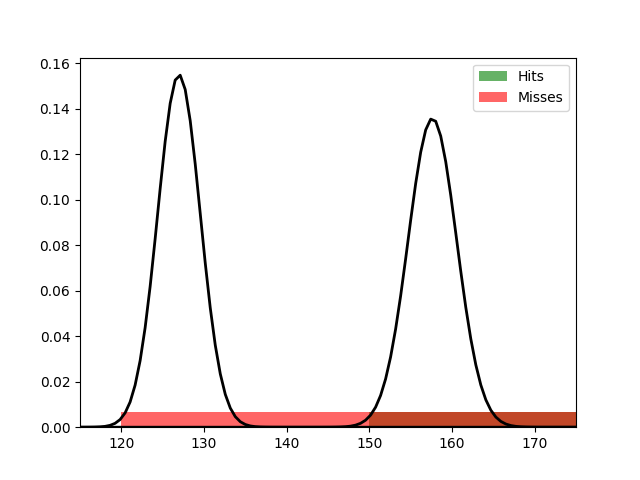
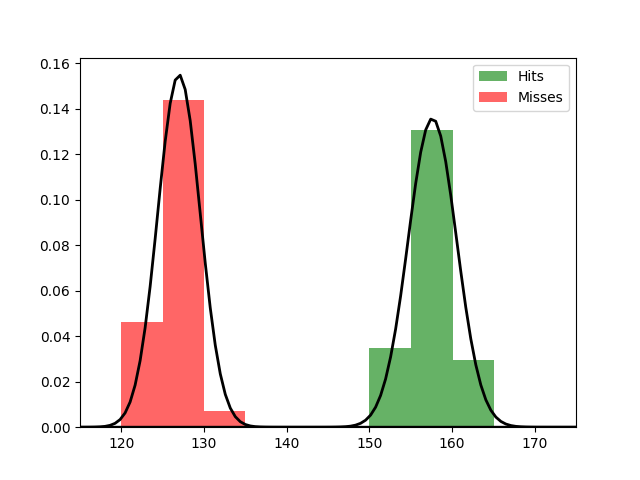
added intel data eval

Changed region(s): [[0.375, 0.25, 0.9062, 0.9062], [0.1875, 0.1875, 0.3438, 0.875]]

diff --git a/evaluate_threshhold.py b/evaluate_threshhold.py
@@ -3,6 +3,7 @@ import matplotlib.pyplot as plt
 from scipy.stats import norm
 from sklearn import metrics
 
+FF=False
 
 # https://stackoverflow.com/questions/22579434/python-finding-the-intersection-point-of-two-gaussian-curves
 def solve(m1, m2, std1, std2):
@@ -48,7 +49,7 @@ mu_miss, std_miss = np.mean(misses_cleaned), np.std(misses_cleaned)
 # fit for Hits
 mu_hit, std_hit = np.mean(hits_cleaned), np.std(hits_cleaned)
 
-if mu_miss > mu_hit:
+if (FF is True and mu_miss > mu_hit) or (FF is False and mu_hit > mu_miss):
     (misses, hits) = (hits, misses)
     (misses_cleaned, hits_cleaned) = (hits_cleaned, misses_cleaned)
 
@@ -57,12 +58,9 @@ if mu_miss > mu_hit:
 
     # fit for Hits
     mu_hit, std_hit = np.mean(hits_cleaned), np.std(hits_cleaned)
-    if mu_miss > mu_hit:
-        print("WTF")
-        exit(1)
 
-plt.hist(hits, density=True, align="mid", alpha=0.6, color='g', label="Hits")
-plt.hist(misses, density=True, align="mid", histtype="barstacked", alpha=0.6, color='r', label="Misses")
+plt.hist(hits, density=True, bins = 100, align="mid", alpha=0.6, color='g', label="Hits")
+plt.hist(misses, density=True, bins = 5000, align="mid", histtype="barstacked", alpha=0.6, color='r', label="Misses")
 
 plt.xlim(min(min(hits_cleaned), min(misses_cleaned)) - 5, max(max(hits_cleaned), max(misses_cleaned)) + 5)
 xmin, xmax = plt.xlim()
@@ -94,14 +92,10 @@ max_acc = 0
 best_threshhold = 0
 for threshhold in result:
     inputs = hits + misses
-    if method == "ff":
+    if FF is True:
         pred = ["Hit" if i > threshhold else "Miss" for i in inputs]
-    elif method == "fr":
-        pred = ["Hit" if i <= threshhold else "Miss" for i in inputs]
     else:
-        print("WTF3")
-        pred = None
-        exit(1)
+        pred = ["Hit" if i <= threshhold else "Miss" for i in inputs]
 
     act = ["Hit"] * NUMBEROFPOINTS + ["Miss"] * NUMBEROFPOINTS
     accuracy = metrics.accuracy_score(act, pred)
@@ -113,14 +107,10 @@ for threshhold in result:
 threshhold = best_threshhold
 print("\n\nTHRESHHOLD: ", threshhold)
 inputs = hits + misses
-if method == "ff":
+if FF is True:
     pred = ["Hit" if i > threshhold else "Miss" for i in inputs]
-elif method == "fr":
-    pred = ["Hit" if i <= threshhold else "Miss" for i in inputs]
 else:
-    print("WTF3")
-    pred = None
-    exit(1)
+    pred = ["Hit" if i <= threshhold else "Miss" for i in inputs]
 
 act = ["Hit"] * NUMBEROFPOINTS + ["Miss"] * NUMBEROFPOINTS
 print("\n", metrics.confusion_matrix(act, pred, labels=["Hit", "Miss"]), "\n")

diff --git a/data/intel/FF_10kHz/readme.md b/data/intel/FF_10kHz/readme.md
@@ -1,0 +1,46 @@
+Fit results Hits: mu = 157.66,  std = 2.94
+Fit results Misses: mu = 126.10,  std = 2.63
+5000
+5000
+
+Threshhold:  -141.7676686684372 
+Accuracy:  0.5
+
+Threshhold:  141.02934195068664 
+Accuracy:  0.9632
+
+
+THRESHHOLD:  141.02934195068664
+
+ [[4816  184]
+ [ 184 4816]] 
+
+              precision    recall  f1-score   support
+
+         Hit       0.96      0.96      0.96      5000
+        Miss       0.96      0.96      0.96      5000
+
+    accuracy                           0.96     10000
+   macro avg       0.96      0.96      0.96     10000
+weighted avg       0.96      0.96      0.96     10000
+
+Accuracy:  0.9632
+Results for the Transmission:
+
+ [[4554  206]
+ [ 207 5033]] 
+
+              precision    recall  f1-score   support
+
+          0
+       0.96      0.96      0.96      4760
+          1
+       0.96      0.96      0.96      5240
+
+    accuracy                           0.96     10000
+   macro avg       0.96      0.96      0.96     10000
+weighted avg       0.96      0.96      0.96     10000
+
+Wasserstein-Distance: 0.00010000
+
+![image](Figure_1.png)

diff --git a/data/intel/FF_1kHz/readme.md b/data/intel/FF_1kHz/readme.md
@@ -1,0 +1,46 @@
+Fit results Hits: mu = 157.63,  std = 2.94
+Fit results Misses: mu = 126.97,  std = 2.57
+5000
+5000
+
+Threshhold:  141.31712938079647 
+Accuracy:  0.9939
+
+Threshhold:  -89.30090792219593 
+Accuracy:  0.5
+
+
+THRESHHOLD:  141.31712938079647
+
+ [[5000    0]
+ [  61 4939]] 
+
+              precision    recall  f1-score   support
+
+         Hit       0.99      1.00      0.99      5000
+        Miss       1.00      0.99      0.99      5000
+
+    accuracy                           0.99     10000
+   macro avg       0.99      0.99      0.99     10000
+weighted avg       0.99      0.99      0.99     10000
+
+Accuracy:  0.9939
+Results for the Transmission:
+
+ [[4986    4]
+ [   0 5010]] 
+
+              precision    recall  f1-score   support
+
+          0
+       1.00      1.00      1.00      4990
+          1
+       1.00      1.00      1.00      5010
+
+    accuracy                           1.00     10000
+   macro avg       1.00      1.00      1.00     10000
+weighted avg       1.00      1.00      1.00     10000
+
+Wasserstein-Distance: 0.00040000
+
+![image](Figure_1.png)

diff --git a/data/intel/FF_100kHz/readme.md b/data/intel/FF_100kHz/readme.md
@@ -1,0 +1,46 @@
+Fit results Hits: mu = 139.38,  std = 15.26
+Fit results Misses: mu = 141.87,  std = 15.44
+5000
+5000
+
+Threshhold:  141.667247945282 
+Accuracy:  0.4589
+
+Threshhold:  -83.44862224644491 
+Accuracy:  0.5
+
+
+THRESHHOLD:  -83.44862224644491
+
+ [[5000    0]
+ [5000    0]] 
+
+              precision    recall  f1-score   support
+
+         Hit       0.50      1.00      0.67      5000
+        Miss       0.00      0.00      0.00      5000
+
+    accuracy                           0.50     10000
+   macro avg       0.25      0.50      0.33     10000
+weighted avg       0.25      0.50      0.33     10000
+
+Accuracy:  0.5
+Results for the Transmission:
+
+ [[3317 1853]
+ [1907 2923]] 
+
+              precision    recall  f1-score   support
+
+          0
+       0.63      0.64      0.64      5170
+          1
+       0.61      0.61      0.61      4830
+
+    accuracy                           0.62     10000
+   macro avg       0.62      0.62      0.62     10000
+weighted avg       0.62      0.62      0.62     10000
+
+Wasserstein-Distance: 0.00540000
+
+![image](Figure_1.png)

diff --git a/data/intel/FR_10kHz/readme.md b/data/intel/FR_10kHz/readme.md
@@ -1,0 +1,46 @@
+Fit results Hits: mu = 43.37,  std = 1.87
+Fit results Misses: mu = 266.41,  std = 2.55
+5000
+5000
+
+Threshhold:  -571.9144006813663 
+Accuracy:  0.5
+
+Threshhold:  137.78340453153146 
+Accuracy:  0.0099
+
+
+THRESHHOLD:  -571.9144006813663
+
+ [[5000    0]
+ [5000    0]] 
+
+              precision    recall  f1-score   support
+
+         Hit       0.50      1.00      0.67      5000
+        Miss       0.00      0.00      0.00      5000
+
+    accuracy                           0.50     10000
+   macro avg       0.25      0.50      0.33     10000
+weighted avg       0.25      0.50      0.33     10000
+
+Accuracy:  0.5
+Results for the Transmission:
+
+ [[4784  476]
+ [ 474 4266]] 
+
+              precision    recall  f1-score   support
+
+          0
+       0.91      0.91      0.91      5260
+          1
+       0.90      0.90      0.90      4740
+
+    accuracy                           0.91     10000
+   macro avg       0.90      0.90      0.90     10000
+weighted avg       0.91      0.91      0.91     10000
+
+Wasserstein-Distance: 0.00020000
+
+![image](Figure_1.png)

diff --git a/data/intel/FR_1kHz/readme.md b/data/intel/FR_1kHz/readme.md
@@ -1,0 +1,46 @@
+Fit results Hits: mu = 42.62,  std = 1.40
+Fit results Misses: mu = 265.75,  std = 2.18
+5000
+5000
+
+Threshhold:  -361.5462460898699 
+Accuracy:  0.5
+
+Threshhold:  130.05762621141798 
+Accuracy:  0.0
+
+
+THRESHHOLD:  -361.5462460898699
+
+ [[5000    0]
+ [5000    0]] 
+
+              precision    recall  f1-score   support
+
+         Hit       0.50      1.00      0.67      5000
+        Miss       0.00      0.00      0.00      5000
+
+    accuracy                           0.50     10000
+   macro avg       0.25      0.50      0.33     10000
+weighted avg       0.25      0.50      0.33     10000
+
+Accuracy:  0.5
+Results for the Transmission:
+
+ [[5080    0]
+ [   0 4920]] 
+
+              precision    recall  f1-score   support
+
+          0
+       1.00      1.00      1.00      5080
+          1
+       1.00      1.00      1.00      4920
+
+    accuracy                           1.00     10000
+   macro avg       1.00      1.00      1.00     10000
+weighted avg       1.00      1.00      1.00     10000
+
+Wasserstein-Distance: 0.00000000
+
+![image](Figure_1.png)

diff --git a/data/intel/FR_100kHz/readme.md b/data/intel/FR_100kHz/readme.md
@@ -1,0 +1,44 @@
+Fit results Hits: mu = 43.15,  std = 1.35
+Fit results Misses: mu = 266.10,  std = 2.53
+5000
+5000
+
+Threshhold:  -211.23814424437236 
+Accuracy:  0.5
+
+Threshhold:  120.66513383706788 
+Accuracy:  0.9996
+
+
+THRESHHOLD:  120.66513383706788
+
+ [[4997    3]
+ [   1 4999]] 
+
+              precision    recall  f1-score   support
+
+         Hit       1.00      1.00      1.00      5000
+        Miss       1.00      1.00      1.00      5000
+
+    accuracy                           1.00     10000
+   macro avg       1.00      1.00      1.00     10000
+weighted avg       1.00      1.00      1.00     10000
+
+Accuracy:  0.9996
+Results for the Transmission:
+
+ [[3234 1706]
+ [1657 3403]] 
+
+              precision    recall  f1-score   support
+
+          0
+       0.66      0.65      0.66      4940
+          1
+       0.67      0.67      0.67      5060
+
+    accuracy                           0.66     10000
+   macro avg       0.66      0.66      0.66     10000
+weighted avg       0.66      0.66      0.66     10000
+
+Wasserstein-Distance: 0.00490000
